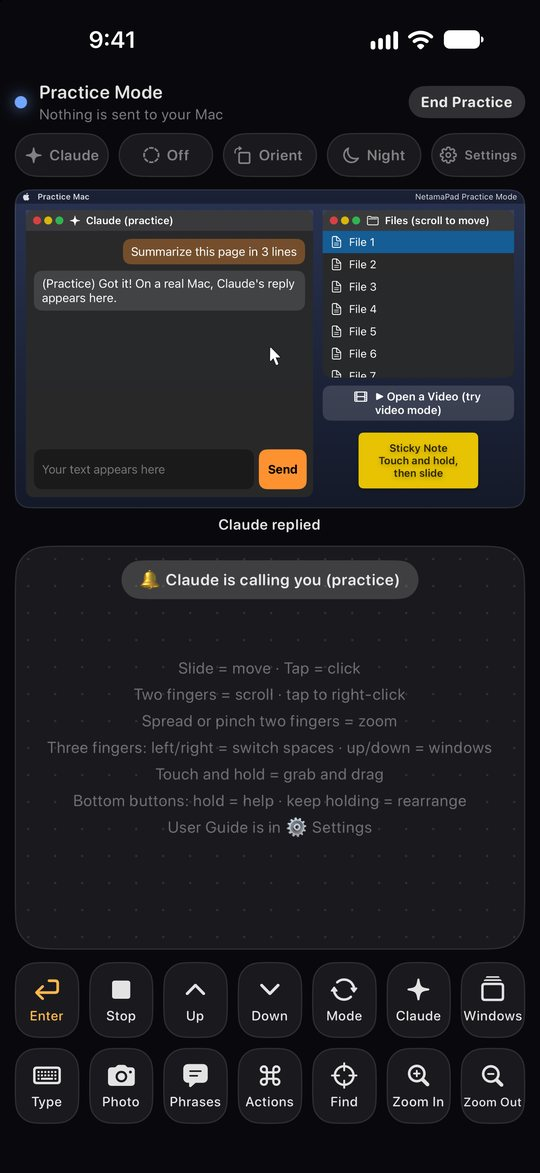
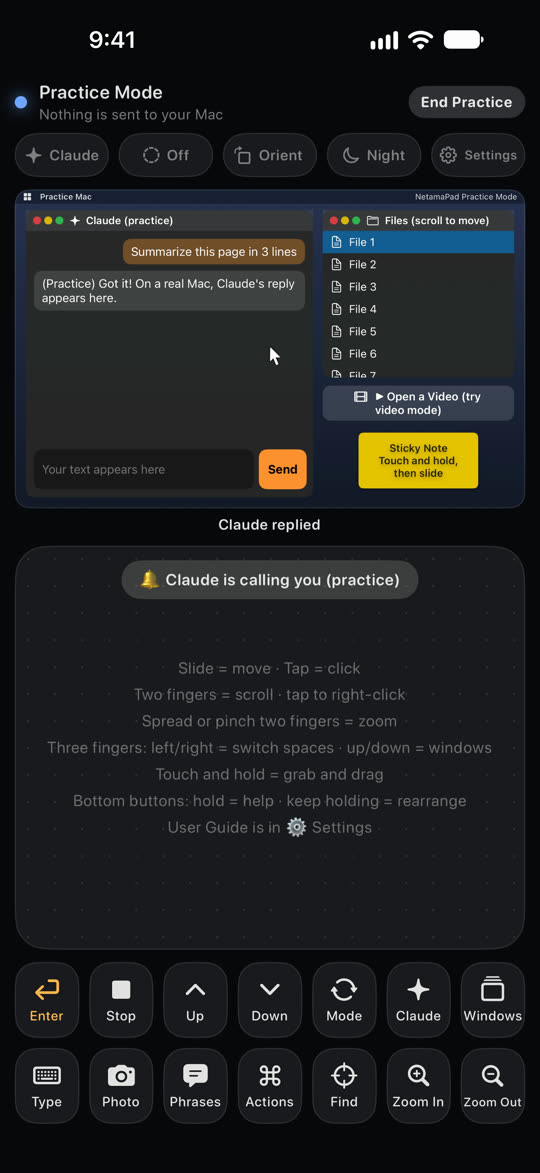
fix: 画面写真から Apple のロゴを外し、商標の注意を足した
- 練習モードの「練習用の Mac」の帯に写っていた Apple のロゴを、組み立て 9 の印に差し替えた（6 枚）
- 足注に iPhone・Mac（Apple Inc.）と Netflix・YouTube・プライムビデオの商標の注意を足した

diff --git a/index.html b/index.html
@@ -144,7 +144,7 @@
     <a href="https://www.apple.com/legal/internet-services/itunes/dev/stdeula/">利用規約（Apple 標準）</a>
     <a href="en/" hreflang="en">English</a>
   </nav>
-  <p>Claude は Anthropic の、ChatGPT と Codex は OpenAI の、Gemini は Google の商標です。ねたまパッドは、これらの会社とは関係がありません。</p>
+  <p>iPhone・Mac は、米国およびその他の国で登録された Apple Inc. の商標です。Claude は Anthropic の、ChatGPT と Codex は OpenAI の、Gemini と YouTube は Google の、Netflix は Netflix, Inc. の、プライムビデオは Amazon の商標です。ねたまパッドは、これらの会社とは関係がありません。</p>
   <p>© 2026 katsu9999（個人開発）</p>
 </footer>
 </body>

diff --git a/en/index.html b/en/index.html
@@ -144,7 +144,7 @@
     <a href="https://www.apple.com/legal/internet-services/itunes/dev/stdeula/">Terms of Use (Apple Standard EULA)</a>
     <a href="../" hreflang="ja">日本語</a>
   </nav>
-  <p>Claude is a trademark of Anthropic. ChatGPT and Codex are trademarks of OpenAI. Gemini is a trademark of Google. NetamaPad is not affiliated with these companies.</p>
+  <p>iPhone and Mac are trademarks of Apple Inc., registered in the U.S. and other countries. Claude is a trademark of Anthropic. ChatGPT and Codex are trademarks of OpenAI. Gemini and YouTube are trademarks of Google. Netflix is a trademark of Netflix, Inc. Prime Video is a trademark of Amazon. NetamaPad is not affiliated with these companies.</p>
   <p>© 2026 katsu9999 (independent developer)</p>
 </footer>
 </body>
